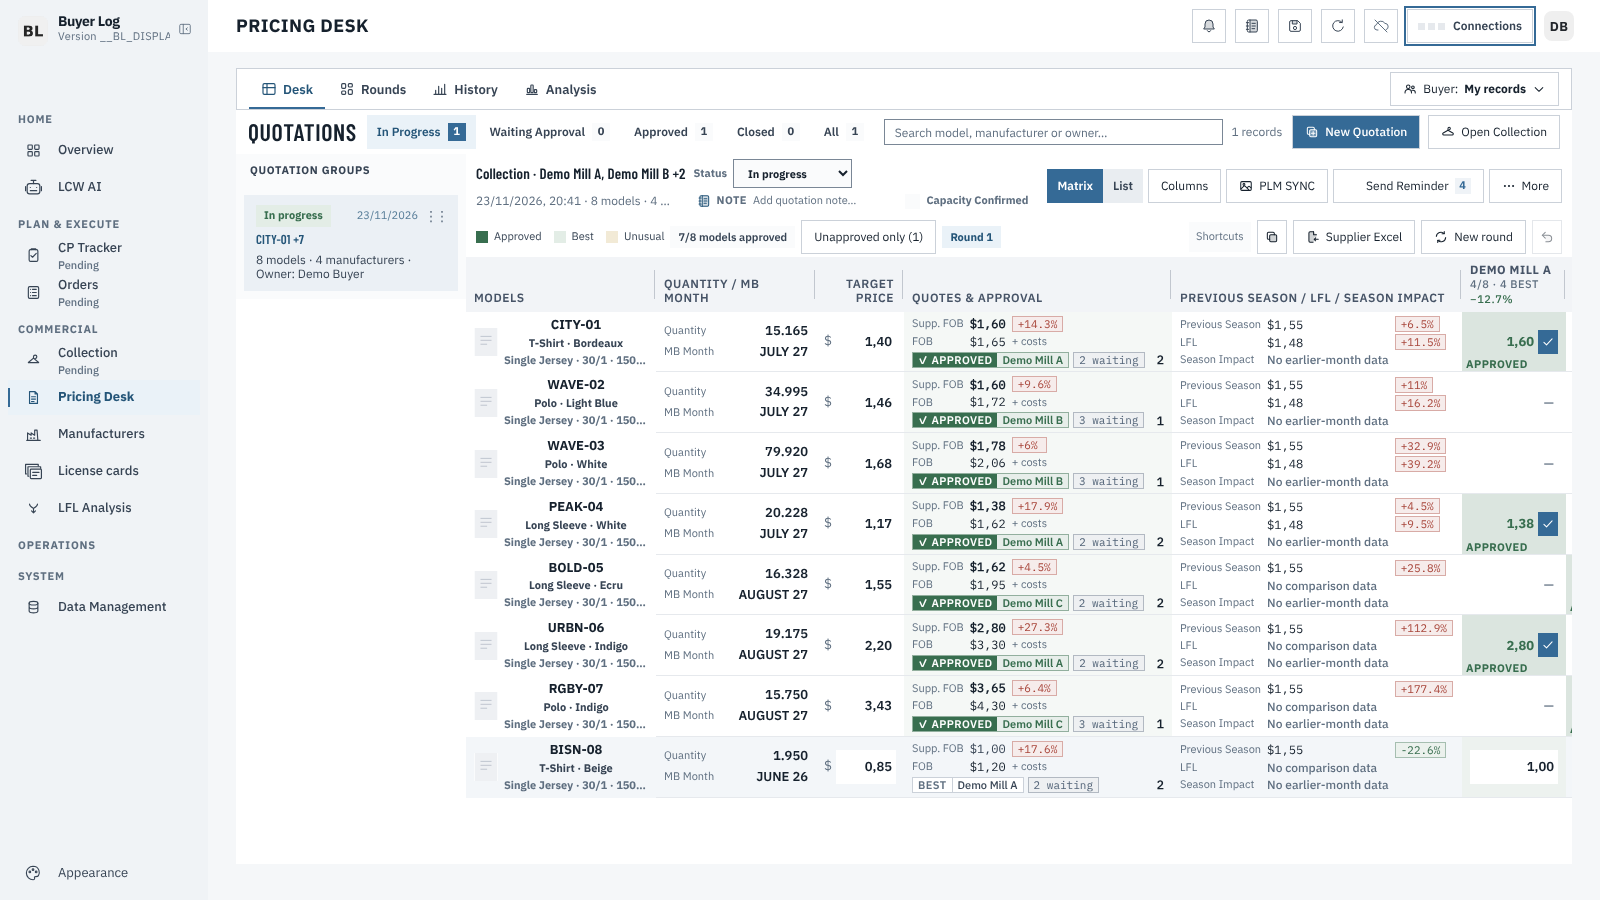
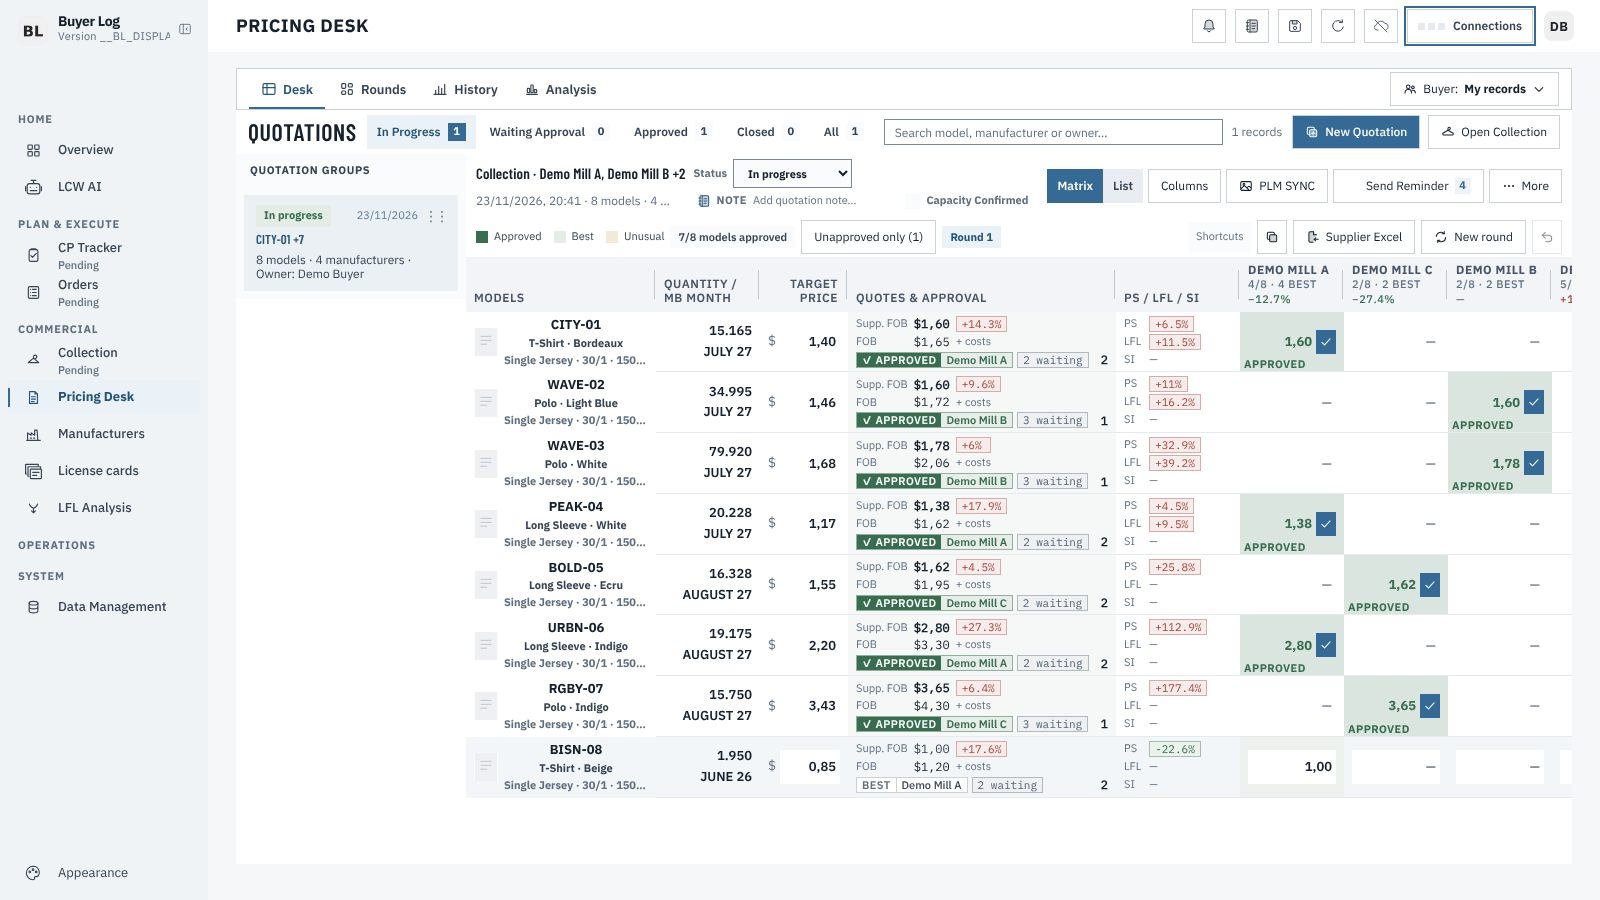
Fiyat Masası: kompakt referans sütunu, değer-only Adet/MB Ay, yalnız Model sabit
- Referans sütunu masada kompakt: PS / LFL / SE(SI) kısaltması ve % etkisi tek
  satırda; ortalama fiyat, dönem ve uyarı ipucunda (BLCollectionLfl.model).
  Koleksiyon tablosu kendi tam görünümünü korur.
- Adet / MB Ay hücresinde yalnız değerler; etiketler sütun başlığında.
- Yalnız Model sütunu dondurulur; Adet/MB Ay, Hedef ve Teklif & Onay yatayda
  tabloyla kayar (uyarlanır sabitleme kaldırıldı).
- Varsayılan genişlikler: Adet/MB Ay 104, referans 124.

Claude-Session: https://claude.ai/code/session_01HKcjmgtu1AwpJ3sWjNbcVE

Changed region(s): [[0.4062, 0.28, 1.0, 0.9022]]

diff --git a/resources/app/public/pricing-desk.js b/resources/app/public/pricing-desk.js
@@ -300,12 +300,22 @@
     const q=quotesModel(model,info,stats);
     return q.main?[kmoney(q.main.price),q.delta!=null?pctText(q.delta):'',`${q.approved?L('✓ Onaylı','✓ Approved'):L('Öneri','Best')} ${clipboardLabel(q.main.manufacturer)}`,q.waiting?L(`${q.waiting} bekliyor`,`${q.waiting} waiting`):''].filter(Boolean).join(' · '):L('Teklif yok','No quotation');
   }
+  /* Kompakt referans hücresi (masaya özel): her referans tek satırda kısa etiket
+     + % etkisi; ortalama fiyat, dönem ve uyarılar satırın ipucundadır. Değerler
+     Koleksiyon'un BLCollectionLfl.model hesabından gelir (Koleksiyon tablosu kendi
+     tam görünümünü korur). */
+  const refShort=key=>key==='__seasonImpact__'?L('SE','SI'):key==='__previousSeason__'?'PS':'LFL';
   function refsCellHtml(model,info){
     const lfl=window.BLCollectionLfl,drawer=drawerRow(info),attrs=` data-pd-refs${drawer?` data-pd-drawer="${esc(model.modelKey)}"`:''}`;
-    let html='';
-    if(info.row&&lfl?.combinedCell){try{html=lfl.combinedCell(info.row,attrs,REF_KEYS);}catch(_){html='';}}
-    // Koleksiyon tablosunun kendi çift tık dinleyicisi bu hücreyi görmez; kimlik masada modelKey'dir.
-    return html?html.replace(/ data-kol-drawer="[^"]*"/,'').replace('<td class="','<td class="pdRefsCol '):`<td class="pdRefsCol"${attrs}><span class="blCellNone">—</span></td>`;
+    if(!info.row||!lfl?.model)return `<td class="pdRefsCol"${attrs}><span class="blCellNone">—</span></td>`;
+    const rows=REF_KEYS.map(key=>{
+      let m=null;try{m=lfl.model(info.row,lfl.modeForKey(key));}catch(_){m=null;}
+      const tip=[`${refLabel(key)}: ${m?.averageText||m?.emptyText||'—'}${m?.percentText?` · ${m.percentText}`:''}`,m?.detail||m?.message||''].filter(Boolean).join('\n');
+      const tag=m?.percentText?`<span class="blCellTag" data-tone="${m.percent<=0?'good':'bad'}">${esc(m.percentText)}</span>`:'<span class="blCellNone">—</span>';
+      const warn=m?.compactWarning?`<span class="blCellNone pdRefWarn">⚠</span>`:'';
+      return `<span class="pdRefRow" title="${esc(tip)}"><span class="blCellStackLabel">${esc(refShort(key))}</span><span class="pdRefTail">${tag}${warn}</span></span>`;
+    }).join('');
+    return `<td class="pdRefsCol"${attrs}><div class="pdRefsCompact">${rows}</div></td>`;
   }
   function refsText(info){
     const lfl=window.BLCollectionLfl;
@@ -384,9 +394,10 @@
     if(!req||!panel)return;
     panel.querySelectorAll('[data-pd-matrix-col]').forEach(box=>setColumnHidden(req,box.dataset.pdMatrixCol,!box.checked));
   }
-  const COL_DEFAULT={model:190,summary:160,target:88,quotes:268,refs:290,ctx:150,mfr:104,other:104,add:124};
-  const COL_MIN={model:120,summary:90,target:72,quotes:150,refs:180,ctx:64,mfr:72,other:72,add:96};
-  const STICKY_COLS=['model','summary','target','quotes'];
+  const COL_DEFAULT={model:190,summary:104,target:88,quotes:268,refs:124,ctx:150,mfr:104,other:104,add:124};
+  const COL_MIN={model:120,summary:72,target:72,quotes:150,refs:96,ctx:64,mfr:72,other:72,add:96};
+  // Yalnız Model sütunu dondurulur; tablonun geri kalanı yatayda kayar.
+  const STICKY_COLS=['model'];
   const colKind=key=>key.startsWith('ctx:')?'ctx':key.startsWith('mfr:')?'mfr':key;
   function colWidth(key){const kind=colKind(key),min=COL_MIN[kind]||64,saved=Number(matrixLayout.widths[key]);return Number.isFinite(saved)&&saved>0?Math.max(min,Math.min(900,Math.round(saved))):(COL_DEFAULT[kind]||120);}
   function matrixColumnKeys(context,layout,canEdit){
@@ -397,23 +408,11 @@
     keys.forEach(key=>{const width=colWidth(key);if(STICKY_COLS.includes(key)){lefts[key]=left;left+=width;}total+=width;});
     return {total,lefts};
   }
-  function matrixTableStyle(keys){const g=matrixGeometry(keys);return `width:${g.total}px;--pd-l-summary:${g.lefts.summary||0}px;--pd-l-target:${g.lefts.target||0}px;--pd-l-quotes:${g.lefts.quotes||0}px`;}
-  /* Teklif & Onay yalnız kaydırılabilir alanda en az ~4 üretici sütunu kalıyorsa
-     sabitlenir; dar ekranda tabloyla kayar (Model · Adet/MB Ay · Hedef sabit kalır,
-     onay üretici hücresinde yeşil olarak görünmeye devam eder). */
-  const PIN_QUOTES_MIN_SCROLL=420;
-  // Son ölçülen tablo kabı genişliği (ResizeObserver'dan; çizimde eşzamanlı yerleşim okuması yapılmaz).
-  let lastMatrixWidth=0;
-  function updateQuotesPin(view){
-    const table=view?.scroll?.querySelector('table'),width=view?.scroll?.clientWidth||0;if(!table||!width)return;
-    lastMatrixWidth=width;const g=matrixGeometry(view.columnKeys);
-    table.classList.toggle('pdQuotesScroll',width-(g.lefts.quotes+colWidth('quotes'))<PIN_QUOTES_MIN_SCROLL);
-  }
+  function matrixTableStyle(keys){return `width:${matrixGeometry(keys).total}px`;}
   function applyMatrixWidths(table,keys){
     const g=matrixGeometry(keys);
     table.querySelectorAll('col[data-pd-col]').forEach(col=>{col.style.width=colWidth(col.dataset.pdCol)+'px';});
     table.style.width=g.total+'px';
-    ['summary','target','quotes'].forEach(key=>table.style.setProperty('--pd-l-'+key,(g.lefts[key]||0)+'px'));
   }
   function sortAttrs(key){
     const sort=matrixLayout.sort,dir=sort&&sort.key===key?(sort.dir===1?'asc':'desc'):'';
@@ -472,7 +471,7 @@
       const meta=modelMeta(info),context=matrixContext();
       return `<tr data-pd-model="${esc(model.modelKey)}" data-pd-row="${mi}" aria-rowindex="${mi+2}"${stats.approved?' class="pdRowApproved"':''}>
         <th scope="row" class="pdModelCell"><div class="pdModel">${thumbHtml(req,model.first)}<div class="pdModelText"><b title="${esc(info.model)}">${esc(info.model)}</b><span title="${esc(meta)}">${esc(meta||'—')}</span>${context.selected.includes('fabric')?`<small title="${esc(info.fabric)}">${esc(info.fabric||'—')}</small>`:''}</div></div></th>
-        ${context.summary.length?`<td class="pdSummary"><span title="${esc(matrixSummaryText(req,model.first,context))}">${context.summary.map(key=>`<span><small>${esc(api.columnLabel(key))}</small><b>${esc(api.fieldValue(req,model.first,key)||'—')}</b></span>`).join('')}</span></td>`:''}
+        ${context.summary.length?`<td class="pdSummary"><span title="${esc(matrixSummaryText(req,model.first,context))}">${context.summary.map(key=>`<b>${esc(api.fieldValue(req,model.first,key)||'—')}</b>`).join('')}</span></td>`:''}
         ${fixedShown('target')?targetCellHtml(req,model,info,ctx.canEdit):''}${fixedShown('quotes')?quotesCellHtml(model,info,stats):''}${fixedShown('refs')?refsCellHtml(model,info):''}
         ${matrixExtraCells(req,model.first,context)}${cells.join('')}${ctx.canEdit?'<td class="pdAddMfrCell" aria-hidden="true"></td>':''}
       </tr>`;
@@ -668,8 +667,6 @@
     matrix.models=filterUnapproved(sortModels(req,allModels,sortKeysFor(context,layout)));
     if(req.source==='collection'&&matrix.models.length)ensureReferences();
     const approvedModels=allModels.filter(model=>E.rowStats(model.lines).approved).length,openModels=allModels.length-approvedModels;
-    // Sabitleme kararı tablo eklenmeden önce kabın genişliğinden verilir (tablo sonrası okuma tam tablo yerleşimi zorlardı).
-    const pinGeometry=matrixGeometry(columnKeys),pinSpace=lastMatrixWidth,quotesScroll=Boolean(pinSpace)&&pinSpace-(pinGeometry.lefts.quotes+colWidth('quotes'))<PIN_QUOTES_MIN_SCROLL;
     const hintsText=[['Enter',L('alt satır','next row')],['Tab',L('sonraki üretici','next manufacturer')],['A',L('onayla','approve')],['D','Drop'],['O',L('alternatif fiyat','alternative price')],['Ctrl+V',L('Excel’den blok yapıştır','paste a block from Excel')],['Ctrl+Z',L('geri al','undo')],['Esc',L('vazgeç','cancel')]].map(([key,text])=>`${key}: ${text}`).join('\n');
     const contextHeads=context.extra.map(key=>`<th scope="col"${ariaSort(['field:'+key])}>${sortLabel('field:'+key,api.columnLabel(key))}${resizeHandle('ctx:'+key)}</th>`).join('');
     host.innerHTML=`<div class="pdMatrixBar">
@@ -691,9 +688,9 @@
       <div class="pdImportPanel" data-pd-import-panel hidden></div>
       <div class="pdMfrPanel" data-pd-mfr-panel hidden></div>
       <div class="pdOptionsPanel" data-pd-options-panel hidden></div>
-      <div class="pdMatrixScroll" tabindex="0"><table class="pdMatrix${quotesScroll?' pdQuotesScroll':''}" style="${matrixTableStyle(columnKeys)}" aria-rowcount="${matrix.models.length+1}" aria-colcount="${columnKeys.length}" aria-label="${esc(L('Model × üretici teklif matrisi','Model × manufacturer quotation matrix'))}">
+      <div class="pdMatrixScroll" tabindex="0"><table class="pdMatrix" style="${matrixTableStyle(columnKeys)}" aria-rowcount="${matrix.models.length+1}" aria-colcount="${columnKeys.length}" aria-label="${esc(L('Model × üretici teklif matrisi','Model × manufacturer quotation matrix'))}">
         <colgroup>${columnKeys.map(key=>`<col data-pd-col="${esc(key)}" style="width:${colWidth(key)}px">`).join('')}</colgroup>
-        <thead><tr><th scope="col" class="pdModelHead"${ariaSort(['model'])}>${sortLabel('model',L('Model','Model'))}${resizeHandle('model')}</th>${context.summary.length?`<th scope="col" class="pdSummary"${ariaSort(context.summary.map(key=>'field:'+key))}><span class="pdHeadSorts">${context.summary.map(key=>sortLabel('field:'+key,api.columnLabel(key))).join('<span class="pdHeadSep" aria-hidden="true"> / </span>')}</span>${hideButton('summary',context.summary.map(key=>api.columnLabel(key)).join(' / '))}${resizeHandle('summary')}</th>`:''}${fixedShown('target')?`<th scope="col" class="pdNum pdTarget"${ariaSort(['target'])}>${sortLabel('target',L('Hedef Fiyat','Target Price'))}${hideButton('target',L('Hedef Fiyat','Target Price'))}${resizeHandle('target')}</th>`:''}${fixedShown('quotes')?`<th scope="col" class="pdQuotesCol"${ariaSort(['quotes'])}>${sortLabel('quotes',L('Teklif & Onay','Quotes & Approval'))}${hideButton('quotes',L('Teklif & Onay','Quotes & Approval'))}${resizeHandle('quotes')}</th>`:''}${fixedShown('refs')?`<th scope="col" class="pdRefsCol"${ariaSort(REF_KEYS.map(key=>'ref:'+key))}><span class="pdHeadSorts">${REF_KEYS.map(key=>sortLabel('ref:'+key,refLabel(key))).join('<span class="pdHeadSep" aria-hidden="true"> / </span>')}</span>${hideButton('refs',REF_KEYS.map(refLabel).join(' / '))}${resizeHandle('refs')}</th>`:''}${contextHeads}${heads}${otherHead}${addHead}</tr></thead>
+        <thead><tr><th scope="col" class="pdModelHead"${ariaSort(['model'])}>${sortLabel('model',L('Model','Model'))}${resizeHandle('model')}</th>${context.summary.length?`<th scope="col" class="pdSummary"${ariaSort(context.summary.map(key=>'field:'+key))}><span class="pdHeadSorts">${context.summary.map(key=>sortLabel('field:'+key,api.columnLabel(key))).join('<span class="pdHeadSep" aria-hidden="true"> / </span>')}</span>${hideButton('summary',context.summary.map(key=>api.columnLabel(key)).join(' / '))}${resizeHandle('summary')}</th>`:''}${fixedShown('target')?`<th scope="col" class="pdNum pdTarget"${ariaSort(['target'])}>${sortLabel('target',L('Hedef Fiyat','Target Price'))}${hideButton('target',L('Hedef Fiyat','Target Price'))}${resizeHandle('target')}</th>`:''}${fixedShown('quotes')?`<th scope="col" class="pdQuotesCol"${ariaSort(['quotes'])}>${sortLabel('quotes',L('Teklif & Onay','Quotes & Approval'))}${hideButton('quotes',L('Teklif & Onay','Quotes & Approval'))}${resizeHandle('quotes')}</th>`:''}${fixedShown('refs')?`<th scope="col" class="pdRefsCol" title="${esc(REF_KEYS.map(key=>`${refShort(key)} = ${refLabel(key)}`).join('\n'))}"${ariaSort(REF_KEYS.map(key=>'ref:'+key))}><span class="pdHeadSorts">${REF_KEYS.map(key=>sortLabel('ref:'+key,refShort(key))).join('<span class="pdHeadSep" aria-hidden="true"> / </span>')}</span>${hideButton('refs',REF_KEYS.map(refLabel).join(' / '))}${resizeHandle('refs')}</th>`:''}${contextHeads}${heads}${otherHead}${addHead}</tr></thead>
         <tbody>${matrix.models.length?matrixRowsHtml(req,matrix,{canEdit,other:layout.other,end:initialEnd}):`<tr><td colspan="${columnKeys.length}"><div class="pricingEmptyState">${esc(allModels.length?L('Onay bekleyen model kalmadı. Tümünü görmek için "Yalnız onaysız" filtresini kapatın.','No models are waiting for approval. Turn off "Unapproved only" to see all models.'):L('Bu talepte model yok.','There are no models in this request.'))}</div></td></tr>`}</tbody>
       </table></div>`;
     host.querySelectorAll('thead [data-pd-expand],[data-pd-collapse]').forEach(button=>button.addEventListener('click',()=>{
@@ -712,10 +709,9 @@
     },0);
     const scroll=host.querySelector('.pdMatrixScroll'),view={host,scroll,req,matrix,items:req.items,layout,canEdit,other:layout.other,virtual,columnKeys,columns:columnKeys.length,rowHeight:scroll.querySelector('tr[data-pd-row]')?.getBoundingClientRect().height||42};
     matrixViews.set(host,view);matrixScrollViews.set(scroll,view);matrixRenderWindow(view);
-    if(!virtual&&typeof ResizeObserver!=='undefined'){const pinObserver=new ResizeObserver(()=>{if(!host.isConnected||matrixViews.get(host)!==view){pinObserver.disconnect();return;}updateQuotesPin(view);});pinObserver.observe(scroll);}
     if(virtual){
       let frame=0;scroll.addEventListener('scroll',()=>{if(!frame)frame=requestAnimationFrame(()=>{frame=0;matrixRenderWindow(view);});},{passive:true});
-      if(typeof ResizeObserver!=='undefined'){const observer=new ResizeObserver(()=>{if(!host.isConnected||matrixViews.get(host)!==view){observer.disconnect();return;}view.rowHeight=scroll.querySelector('tr[data-pd-row]')?.getBoundingClientRect().height||view.rowHeight;matrixRenderWindow(view);updateQuotesPin(view);});observer.observe(scroll);}
+      if(typeof ResizeObserver!=='undefined'){const observer=new ResizeObserver(()=>{if(!host.isConnected||matrixViews.get(host)!==view){observer.disconnect();return;}view.rowHeight=scroll.querySelector('tr[data-pd-row]')?.getBoundingClientRect().height||view.rowHeight;matrixRenderWindow(view);});observer.observe(scroll);}
     }
     state.flash.clear();
     bindMatrix(host,req,matrix);view.ready=true;bindMatrixClipboard(view);bindMatrixHead(view);
@@ -842,11 +838,11 @@
         try{handle.setPointerCapture(event.pointerId);}catch(_){}
         table.classList.add('isResizing');
         const move=e=>{matrixLayout.widths[key]=start+e.clientX-startX;matrixLayout.widths[key]=colWidth(key);applyMatrixWidths(table,view.columnKeys);};
-        const up=()=>{handle.removeEventListener('pointermove',move);handle.removeEventListener('pointerup',up);handle.removeEventListener('pointercancel',up);table.classList.remove('isResizing');saveMatrixLayout();updateQuotesPin(view);view.rowHeight=scroll.querySelector('tr[data-pd-row]')?.getBoundingClientRect().height||view.rowHeight;matrixRenderWindow(view);};
+        const up=()=>{handle.removeEventListener('pointermove',move);handle.removeEventListener('pointerup',up);handle.removeEventListener('pointercancel',up);table.classList.remove('isResizing');saveMatrixLayout();view.rowHeight=scroll.querySelector('tr[data-pd-row]')?.getBoundingClientRect().height||view.rowHeight;matrixRenderWindow(view);};
         handle.addEventListener('pointermove',move);handle.addEventListener('pointerup',up);handle.addEventListener('pointercancel',up);
       });
       handle.addEventListener('click',event=>event.stopPropagation());
-      handle.addEventListener('dblclick',event=>{event.preventDefault();event.stopPropagation();delete matrixLayout.widths[key];applyMatrixWidths(table,view.columnKeys);saveMatrixLayout();updateQuotesPin(view);});
+      handle.addEventListener('dblclick',event=>{event.preventDefault();event.stopPropagation();delete matrixLayout.widths[key];applyMatrixWidths(table,view.columnKeys);saveMatrixLayout();});
     });
   }
   function flashCell(host,lineId){

diff --git a/resources/app/public/pricing-desk.css b/resources/app/public/pricing-desk.css
@@ -93,16 +93,13 @@
 .pdMatrix thead th.pdNum{text-align:right}
 .pdMatrix .pdModelHead,.pdMatrix .pdModelCell{position:sticky;left:0}
 .pdMatrix tbody td,.pdMatrix tbody th{padding:4px 8px;vertical-align:middle}
-/* Sabit sütunlar (Model · Adet/MB Ay · Hedef · Teklif & Onay) genişlikleri JS'te
-   kullanıcı ayarından hesaplanan --pd-l-* değişkenleriyle hizalanır. */
-.pdMatrix .pdTarget,.pdMatrix .pdQuotesCol{position:sticky}
-.pdMatrix .pdTarget{left:var(--pd-l-target,0px)}
-.pdMatrix .pdQuotesCol{left:var(--pd-l-quotes,0px)}
+/* Yalnız Model sütunu donar; diğer sütunlar tabloyla birlikte yatayda kayar. */
 .pdMatrix tbody tr{height:44px}
 .pdMatrix tbody td.pdQuotesCol,.pdMatrix tbody td.pdRefsCol{padding:3px 8px;vertical-align:middle;overflow:hidden}
-.pdMatrix tbody td.pdRefsCol{position:relative}
-.pdMatrix.pdQuotesScroll tbody td.pdQuotesCol{position:relative;left:auto}
-.pdMatrix.pdQuotesScroll thead th.pdQuotesCol{left:auto}
+.pdMatrix tbody td.pdRefsCol,.pdMatrix tbody td.pdQuotesCol{position:relative}
+.pdRefsCompact{display:grid;grid-template-columns:auto auto;align-items:center;justify-content:start;gap:2px 8px}
+.pdRefRow{display:contents}
+.pdRefTail{display:inline-flex;align-items:center;gap:4px;min-width:0;white-space:nowrap}
 .pdIconBtn{display:inline-grid;place-items:center;width:var(--ui-control-height-small);padding:0}
 .pdMatrix td.pdQuotesCol:hover .kolManualBtn,.pdMatrix td.pdQuotesCol:focus-within .kolManualBtn{opacity:1}
 .pdTargetBox{display:flex;align-items:center;justify-content:space-between;gap:4px;min-width:0}
@@ -335,9 +332,7 @@ td.kolPriceStripTd:hover .kolManualBtn,td.kolPriceStripTd:focus-within .kolManua
 .pdRoundQuote{display:inline-flex;align-items:center;gap:5px;padding:3px 5px}
 
 /* Collection context and per-user column selection. */
-.pdMatrix .pdSummary{position:sticky;left:var(--pd-l-summary,200px)}
-td.pdSummary>span{display:flex;flex-direction:column;gap:2px}
-td.pdSummary>span>span{display:flex;align-items:center;justify-content:space-between;gap:6px}
+td.pdSummary>span{display:flex;flex-direction:column;align-items:flex-end;gap:2px}
 .pdSummary b{overflow:hidden;text-overflow:ellipsis;white-space:nowrap}
 .pdCollectionValue{display:block;overflow:hidden;text-overflow:ellipsis;white-space:nowrap}
 .pdColumnsPanel{display:flex;flex-direction:column;gap:8px;margin:8px 10px;padding:12px}

diff --git a/resources/app/tests/pricing-desk-collection-columns-v20261126.test.js b/resources/app/tests/pricing-desk-collection-columns-v20261126.test.js
@@ -59,15 +59,15 @@ test('sorting reorders models by any column, keeps empty values last and toggles
   assert.match(String(store.get('lcw.pricingDesk.matrixLayout.v1')),/"key":"quotes","dir":-1/);
 });
 
-test('column widths clamp, persist per user and keep sticky columns aligned',()=>{
+test('column widths clamp, persist per user and only Models is frozen',()=>{
   const {api}=desk(),context={summary:['quantity','inStoreMonth'],extra:['season']},layout={visible:[{name:'Demo Mill A'}],other:[]};
   const keys=Array.from(api.matrixColumnKeys(context,layout,true));
   assert.deepEqual(keys,['model','summary','target','quotes','refs','ctx:season','mfr:Demo Mill A','add']);
   api.matrixLayout.widths.model=20;api.matrixLayout.widths.quotes=260;
   assert.equal(api.colWidth('model'),120,'minimum width protects the column');
   const g=api.matrixGeometry(keys);
-  assert.deepEqual(JSON.parse(JSON.stringify(g.lefts)),{model:0,summary:120,target:280,quotes:368});
-  assert.equal(g.total,120+160+88+260+290+150+104+124);
+  assert.deepEqual(JSON.parse(JSON.stringify(g.lefts)),{model:0},'only the Models column is frozen');
+  assert.equal(g.total,120+104+88+260+124+150+104+124);
 });
 
 test('clipboard header follows the new column set',()=>{
@@ -115,6 +115,13 @@ test('Unapproved only keeps open models, survives a server acknowledgement and i
   api.setColumnHidden(req,'refs',false);assert.match(String(store.get('lcw.pricingDesk.matrixLayout.v1')),/"unapprovedOnly":true/);
   assert.doesNotMatch(deskSource,/bulkApproveCandidates|data-pd-bulk/,'bulk approval is removed from the desk');
   assert.equal(E.bulkApproveCandidates,undefined);
+});
+
+test('compact references and value-only Quantity / MB Month cells',()=>{
+  assert.match(deskSource,/<span class="pdRefRow" title="\$\{esc\(tip\)\}"><span class="blCellStackLabel">\$\{esc\(refShort\(key\)\)\}<\/span>/);
+  assert.match(deskSource,/context\.summary\.map\(key=>`<b>\$\{esc\(api\.fieldValue\(req,model\.first,key\)\|\|'—'\)\}<\/b>`\)/,'labels live only in the header');
+  assert.doesNotMatch(deskSource,/pdQuotesScroll|--pd-l-quotes/);
+  assert.doesNotMatch(read('pricing-desk.css'),/\.pdMatrix \.(?:pdTarget|pdQuotesCol|pdSummary)\{position:sticky/);
 });
 
 function quotes(lang){
